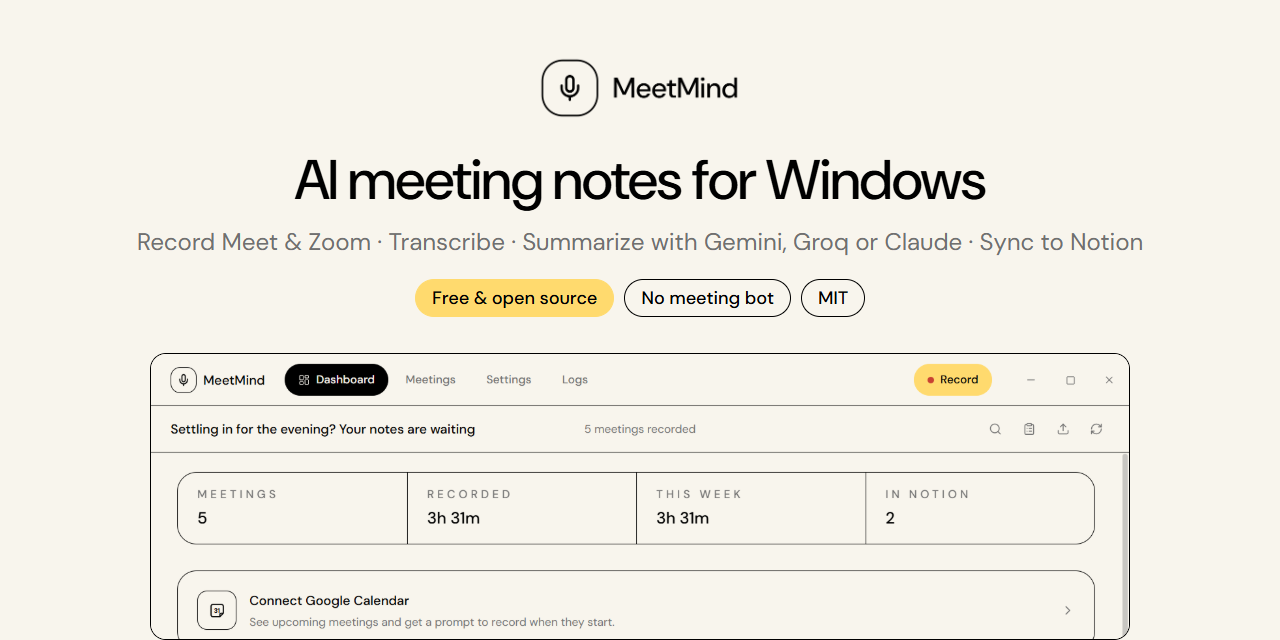
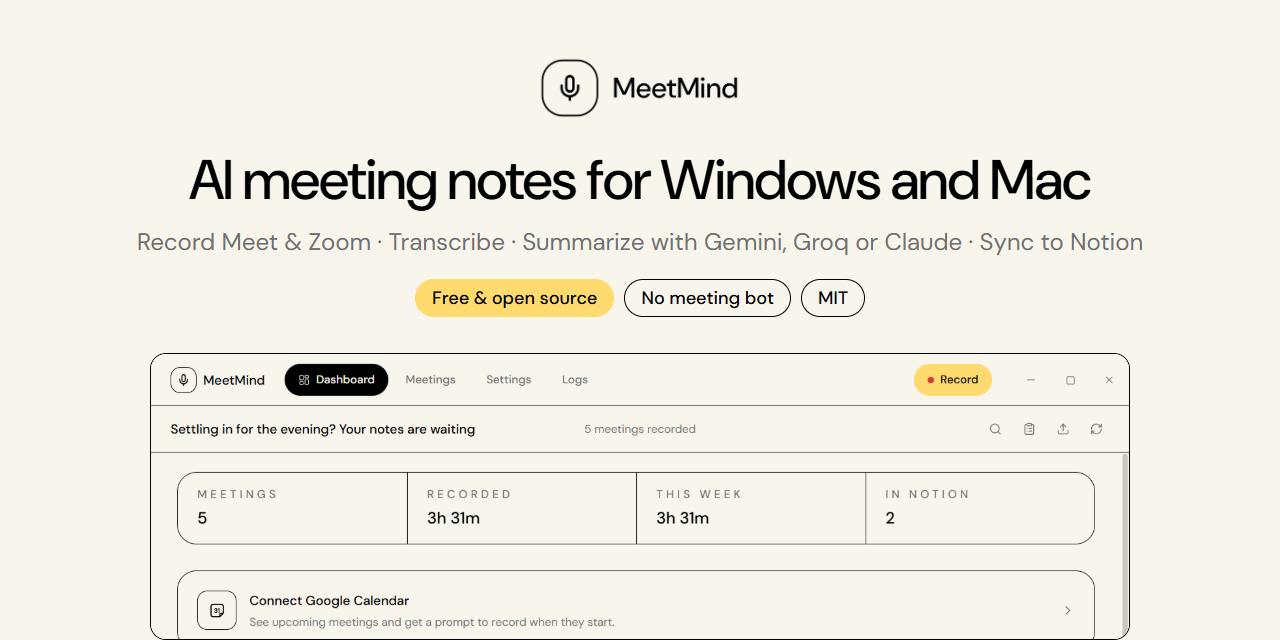
feat: add social preview HTML template for brand assets

Changed region(s): [[0.125, 0.25, 0.8438, 0.3438]]

diff --git a/site/og.html b/site/og.html
@@ -24,7 +24,7 @@
 </head>
 <body>
   <img class="wordmark" src="../docs/brand/meetmind-wordmark-light.png" alt="">
-  <h1>AI meeting notes for Windows</h1>
+  <h1>AI meeting notes for Windows and Mac</h1>
   <p>Record Meet &amp; Zoom · Transcribe · Summarize with Gemini, Groq or Claude · Sync to Notion</p>
   <div class="pill"><span class="hi">Free &amp; open source</span><span>No meeting bot</span><span>MIT</span></div>
   <div class="shot"><img src="../docs/screenshots/dashboard.png" alt=""></div>
